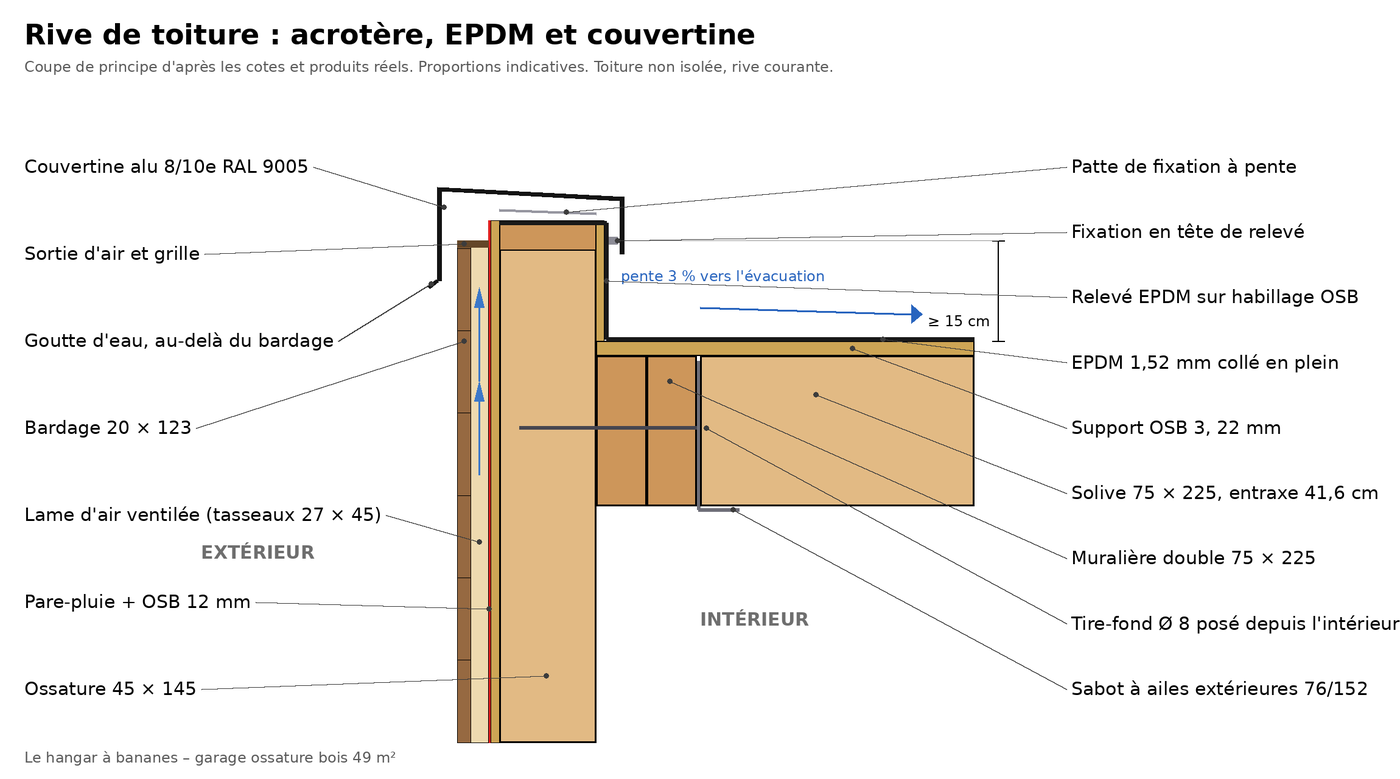
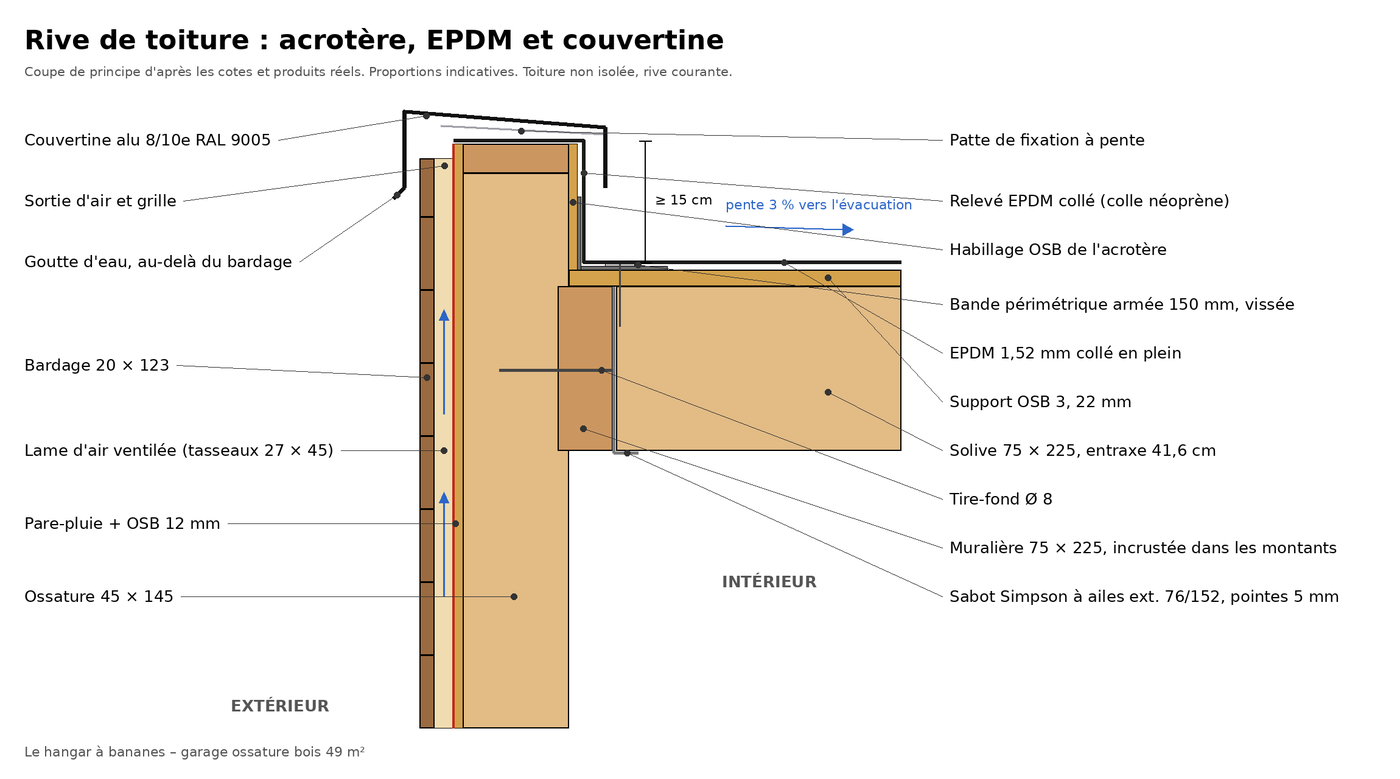
Article 7 : angles EPDM, schéma de rive redessiné, muralière et sabots

diff --git a/content/etapes/07-la-toiture/index.md b/content/etapes/07-la-toiture/index.md
@@ -18,7 +18,7 @@ Juin 2024 : les murs sont debout et bardés, mais le garage n’a toujours pas d
 |---|---|
 | **Période** | juin → juillet 2024 |
 | **Type** | toiture-terrasse non isolée, pente de 3 % |
-| **Charpente** | solives 75 × 225 mm, entraxe 41,6 cm, sur muralières doubles |
+| **Charpente** | solives 75 × 225 mm, entraxe 41,6 cm, sur muralières |
 | **Support** | OSB 3 de 22 mm, rainures et languettes |
 | **Étanchéité** | membrane EPDM de toiture de 1,52 mm, collée à froid, environ 1 845 € avec les accessoires |
 | **Couvertines** | aluminium laqué noir RAL 9005, 32 m, environ 963 € |
@@ -26,11 +26,11 @@ Juin 2024 : les murs sont debout et bardés, mais le garage n’a toujours pas d
 
 ## Comment porter un toit plat ?
 
-Contre la face intérieure des murs, en tête, nous avons d’abord fixé les **muralières** : des poutres doubles de 75 × 225 mm, vissées dans les montants par des tire-fonds, de grosses vis à bois de 8 mm. Elles sont en deux pièces, assemblées en sifflet désabouté : une coupe en biais, avec des joints décalés entre les deux épaisseurs.
+Contre la face intérieure des murs, en tête, nous avons d’abord fixé les **muralières** : des poutres de 75 × 225 mm, légèrement incrustées dans les montants, entaillés pour les recevoir, puis fixées par des tire-fonds, de grosses vis à bois de 8 mm. Trop longues pour une seule pièce, elles sont en deux morceaux, raboutés par une enture en sifflet : une longue coupe en biais qui raccorde les deux pièces bout à bout.
 
 {{< figure src="murailleres-sabots.jpg" alt="Muralières fixées sur la face intérieure des murs, sabots métalliques en attente" caption="Les muralières sur la face intérieure des murs, sabots en attente, juin 2024." >}}
 
-Sur ces muralières, des sabots métalliques reçoivent les **solives**, de 75 × 225 mm aussi, longues de 5,44 à 5,66 m, tous les 41,6 cm. Une entretoise à mi-portée les tient entre elles, pour qu’aucune ne se couche sous la charge : c’est le déversement.
+Sur ces muralières, des sabots métalliques Simpson Strong-Tie, fixés par des pointes de 5 mm, reçoivent les **solives**, de 75 × 225 mm aussi, longues de 5,44 à 5,66 m, tous les 41,6 cm. Une entretoise à mi-portée les tient entre elles, pour qu’aucune ne se couche sous la charge : c’est le déversement.
 
 Un toit « plat » ne l’est jamais tout à fait. Sans pente, l’eau stagne sur la membrane. Le nôtre descend de **3 %** vers l’évacuation, et cette pente ne vient ni d’une chape ni de cales : ce sont les solives elles-mêmes qui sont posées en pente.
 
@@ -74,11 +74,23 @@ Les rives sont les points sensibles d’un toit plat. La membrane remonte d’**
 
 Dans l’angle, au pied de l’acrotère, une **bande adhésive périmétrique armée** de 150 mm est vissée par des plaquettes ovales, quatre par mètre. Elle plaque la membrane dans l’angle : le relevé ne tire jamais dessus. C’est d’ailleurs là, en pied de relevé, que les fabricants demandent cette fixation.
 
-{{< figure src="releve-angle.jpg" alt="Membrane EPDM relevée sur l’acrotère, avec un angle" caption="Le relevé d’EPDM sur l’acrotère habillé d’OSB, et un angle, le 7 juillet 2024." >}}
-
 Tout en haut, une **couvertine** en aluminium laqué noir RAL 9005 coiffe l’acrotère et protège la tête du relevé. Elle est posée sur des pattes en pente, pour que l’eau qui tombe dessus reparte vers le toit, et non sur le bardage.
 
 {{< duo theorie="schema-acrotere.png" alt-theorie="Coupe de principe de la rive : acrotère, relevé EPDM, couvertine, muralière et solive" vrai="couvertine-angle.jpg" alt-vrai="Couvertine en aluminium noir posée en angle sur l’acrotère" legende="La rive en coupe, et la couvertine posée en angle, par-dessus le relevé, le 27 juillet 2024." >}}
+
+## Comment étancher un angle ?
+
+C’est le point le plus délicat de toute la toiture. Dans un angle rentrant, au pied de l’acrotère, on ne coupe jamais la membrane : une coupe à cet endroit, c’est une fuite assurée. La technique décrite par les fabricants s’appelle le **pli en oreille**.
+
+On colle d’abord la membrane sur le premier relevé, en la roulant bien au fond de l’angle pour qu’elle ne fasse pas de pont. On la colle ensuite sur le second relevé : le surplus forme une oreille, un triangle de membrane qui dépasse dans l’angle. Cette oreille est collée sur elle-même, puis rabattue à plat contre l’un des relevés.
+
+Par-dessus, une pièce de **bande adhésive de 300 mm pour détails**, une bande étirable, coiffe l’angle : primaire, pièce collée d’abord à plat puis étirée dans l’angle, marouflage à la roulette, et un cordon de mastic en bordure.
+
+{{< figure src="schema-angle-epdm.png" alt="Schéma en quatre étapes du pli en oreille dans un angle rentrant" caption="Le pli en oreille, en quatre étapes." >}}
+
+Les DTU ne décrivent pas ce pli : pour une membrane EPDM, c’est le cahier des charges du fabricant qui fait foi. Pour la nôtre, c’est le [cahier des clauses techniques EPDM Systems](https://www.epdm-tpo.fr/uploads/medias/cct-vise-epdm-systems-alphacontrol-janvier-2023.pdf) du fournisseur EPDM-TPO, visé par un bureau de contrôle : il détaille les pièces d’angle, rentrants et saillants, et les primaires.
+
+{{< figure src="releve-angle.jpg" alt="Membrane EPDM relevée sur l’acrotère, avec un angle" caption="Le relevé d’EPDM sur l’acrotère habillé d’OSB, et un angle, le 7 juillet 2024." >}}
 
 ## Où va l’eau ?
 
